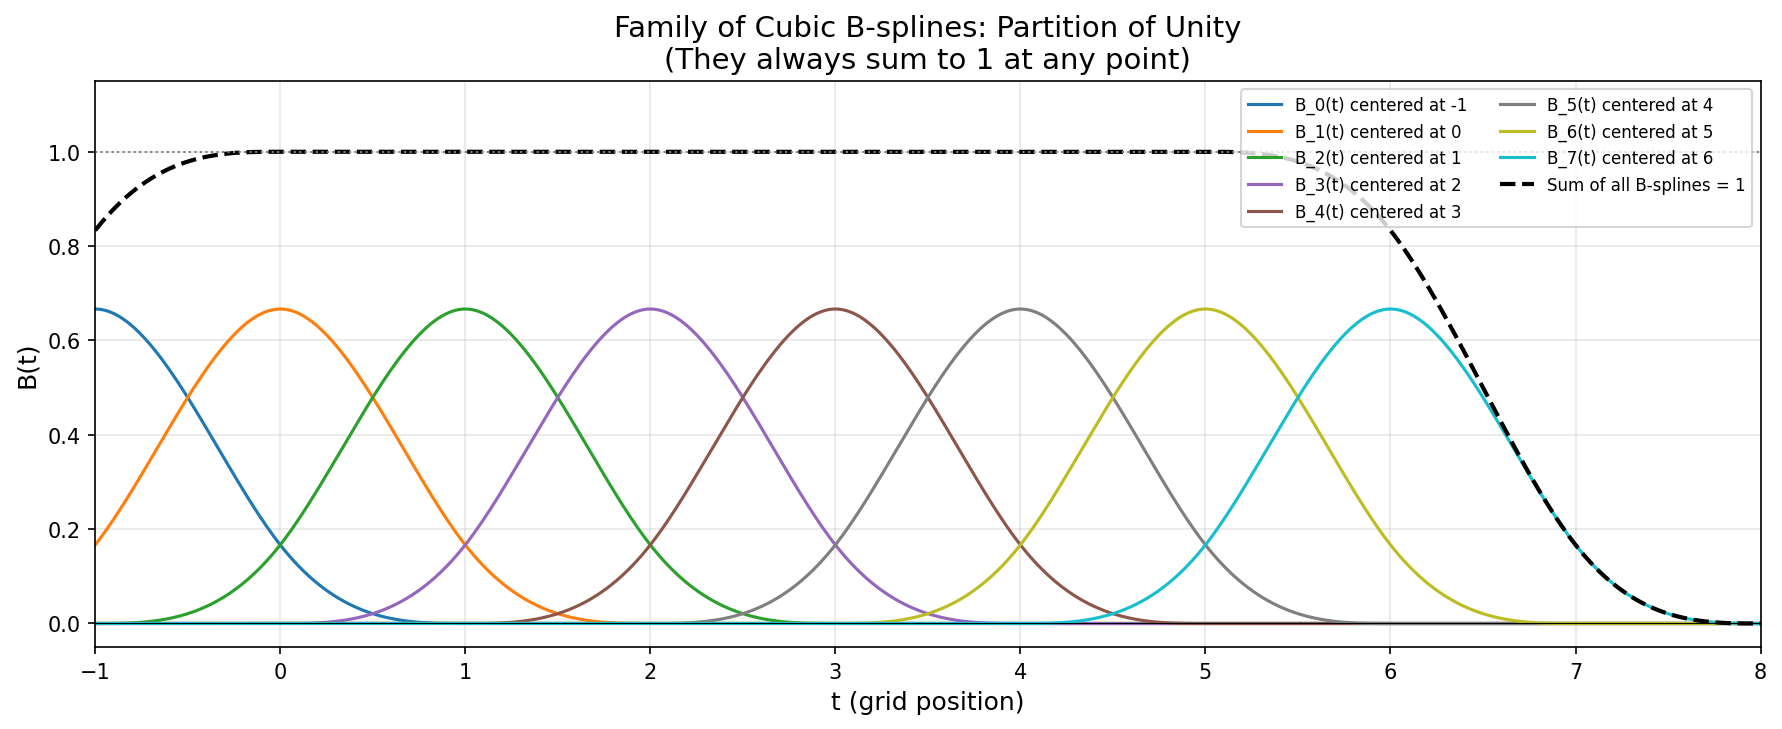
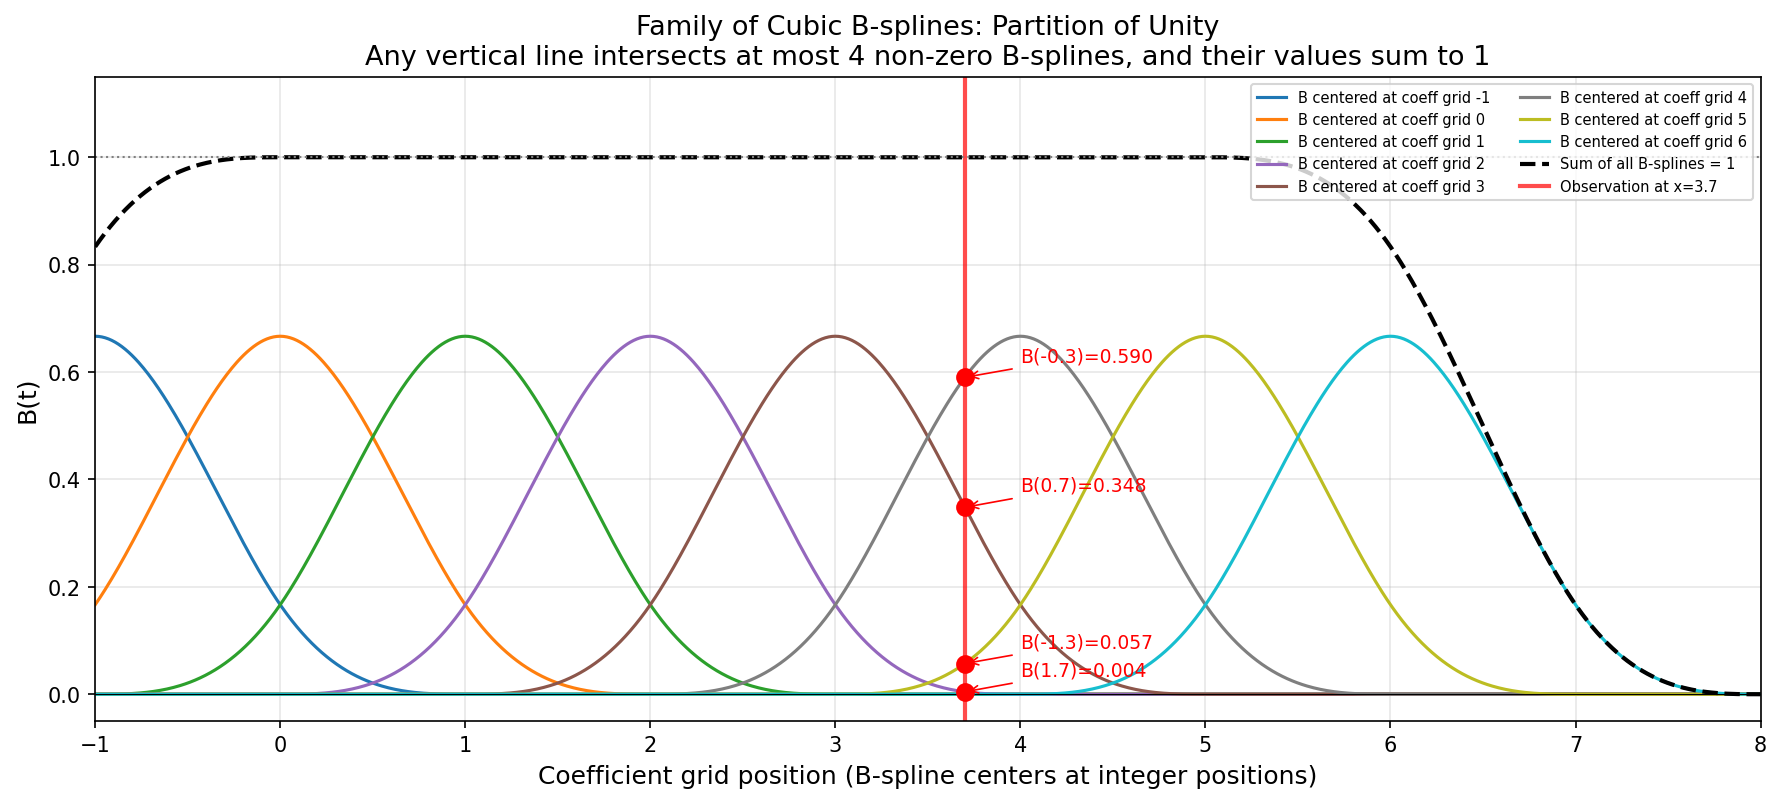
More doc updates

diff --git a/documentation/figures/plot_bspline_basis.py b/documentation/figures/plot_bspline_basis.py
@@ -58,9 +58,9 @@ def plot_single_bspline():
         ax.axvline(x=knot, color='gray', linestyle='--', linewidth=0.5, alpha=0.7)
         ax.plot(knot, cubic_bspline_basis(knot), 'ro', markersize=6)
 
-    ax.set_xlabel('t (grid units)', fontsize=12)
+    ax.set_xlabel('t (distance from center, in coefficient grid spacings)', fontsize=12)
     ax.set_ylabel('B(t)', fontsize=12)
-    ax.set_title('Single Cubic B-spline Basis Function\n(non-zero only over 4 grid cells)', fontsize=14)
+    ax.set_title('Single Cubic B-spline Basis Function\n(non-zero only within 2 grid spacings of center)', fontsize=14)
     ax.set_xlim(-3, 3)
     ax.set_ylim(-0.05, 0.75)
     ax.legend(loc='upper right')
@@ -79,30 +79,46 @@ def plot_single_bspline():
 
 def plot_bspline_family():
     """Plot multiple translated B-splines showing how they tile the domain."""
-    fig, ax = plt.subplots(figsize=(12, 5))
+    fig, ax = plt.subplots(figsize=(12, 5.5))
 
     t = np.linspace(-1, 8, 1000)
     colors = plt.cm.tab10(np.linspace(0, 1, 8))
 
-    # Plot B-splines centered at different grid points
+    # Plot B-splines centered at different coefficient grid points
     total = np.zeros_like(t)
     for i, center in enumerate(range(-1, 7)):
         B = cubic_bspline_basis(t - center)
-        ax.plot(t, B, color=colors[i], linewidth=1.5, label=f'B_{i}(t) centered at {center}')
+        ax.plot(t, B, color=colors[i], linewidth=1.5, label=f'B centered at coeff grid {center}')
         total += B
 
     # Plot the sum (should be 1 everywhere in the interior)
     ax.plot(t, total, 'k--', linewidth=2, label='Sum of all B-splines = 1')
 
+    # Show an observation between grid points
+    obs_pos = 3.7
+    ax.axvline(x=obs_pos, color='red', linestyle='-', linewidth=2, alpha=0.7, label=f'Observation at x={obs_pos}')
+
+    # Mark the 4 basis values at the observation location
+    for center in [2, 3, 4, 5]:
+        bval = cubic_bspline_basis(obs_pos - center)[0]
+        if bval > 0.001:
+            ax.plot(obs_pos, bval, 'ro', markersize=8, zorder=10)
+            ax.annotate(f'B({obs_pos - center:.1f})={bval:.3f}',
+                       xy=(obs_pos, bval), xytext=(obs_pos + 0.3, bval + 0.03),
+                       fontsize=9, color='red',
+                       arrowprops=dict(arrowstyle='->', color='red', lw=0.8))
+
     ax.axhline(y=1, color='gray', linestyle=':', linewidth=1)
     ax.axhline(y=0, color='k', linewidth=0.5)
 
-    ax.set_xlabel('t (grid position)', fontsize=12)
+    ax.set_xlabel('Coefficient grid position (B-spline centers at integer positions)', fontsize=12)
     ax.set_ylabel('B(t)', fontsize=12)
-    ax.set_title('Family of Cubic B-splines: Partition of Unity\n(They always sum to 1 at any point)', fontsize=14)
+    ax.set_title('Family of Cubic B-splines: Partition of Unity\n'
+                 'Any vertical line intersects at most 4 non-zero B-splines, and their values sum to 1',
+                 fontsize=13)
     ax.set_xlim(-1, 8)
     ax.set_ylim(-0.05, 1.15)
-    ax.legend(loc='upper right', fontsize=8, ncol=2)
+    ax.legend(loc='upper right', fontsize=7, ncol=2)
     ax.grid(True, alpha=0.3)
 
     plt.tight_layout()
@@ -185,7 +201,7 @@ def plot_field_reconstruction():
         ax.plot(x, B_weighted, color=colors[i], linewidth=1, alpha=0.7,
                 label=f'c_{i}·B_{i}' if i < 5 else None)
     ax.set_title('Individual weighted basis functions: c_i · B_i(x)', fontsize=12)
-    ax.set_xlabel('x (grid position)')
+    ax.set_xlabel('x (coefficient grid position)')
     ax.set_ylabel('Contribution to field')
     ax.legend(loc='upper right', fontsize=8)
     ax.grid(True, alpha=0.3)
@@ -199,7 +215,7 @@ def plot_field_reconstruction():
         if i in [0, 2, 4, 6, 9]:
             ax.plot(x, cumulative, linewidth=1.5, alpha=0.7, label=f'Sum up to B_{i}')
     ax.set_title('Progressive reconstruction: Σ c_i · B_i(x)', fontsize=12)
-    ax.set_xlabel('x (grid position)')
+    ax.set_xlabel('x (coefficient grid position)')
     ax.set_ylabel('Reconstructed field')
     ax.legend(loc='upper right', fontsize=8)
     ax.grid(True, alpha=0.3)
@@ -214,7 +230,7 @@ def plot_field_reconstruction():
     ax.scatter(range(n_coeffs), coefficients, c='red', s=50, zorder=5,
                label='Coefficient values c_i')
     ax.set_title('Final result: SST(x) = Σ c_i · B_i(x)', fontsize=12)
-    ax.set_xlabel('x (grid position)')
+    ax.set_xlabel('x (coefficient grid position)')
     ax.set_ylabel('Temperature (°C)')
     ax.legend(loc='upper right')
     ax.grid(True, alpha=0.3)

diff --git a/documentation/ALGORITHM_FLOW.md b/documentation/ALGORITHM_FLOW.md
@@ -65,29 +65,33 @@ Processing in a coarse-to-fine hierarchy provides several advantages:
 
 ### What are B-splines?
 
-B-splines are **purely mathematical basis functions**—they have no inherent connection to temperature or ocean physics. They serve the same role as sine/cosine waves in Fourier analysis: providing a flexible set of "building blocks" for representing smooth fields.
+B-splines are **purely mathematical basis functions**—they have no inherent connection to temperature or ocean physics. They provide a smooth, local "building block" for representing continuous fields.
 
-The SST field is represented as a weighted sum of these basis functions:
+Unlike Fourier analysis (which uses many different basis shapes—sin(x), sin(2x), sin(3x), etc.), MRVA uses **a single basis function shape**: the cubic B-spline. Copies of this one function are placed at each point on a **coefficient grid**, and the SST field is reconstructed as their weighted sum:
 
 ```
-SST(x,y) = Σ c_ij · B_i(x) · B_j(y)
+SST(x,y) = Σ c_ij · B(x - x_i) · B(y - y_j)
 ```
 
-Where the **coefficients c_ij are the unknowns** we solve for, and the B-splines B_i, B_j are fixed mathematical functions.
+Where:
+- `c_ij` are the coefficient values at coefficient grid point (i,j) — **the unknowns we solve for**
+- `B(t)` is the single cubic B-spline function, evaluated at distance t from the center
+- `x_i, y_j` are the coefficient grid positions where B-splines are centered
 
 ### Key Properties
 
 | Property | Description | Benefit for MRVA |
 |----------|-------------|------------------|
-| **Local support** | Each B-spline is non-zero over only 4 grid cells | Sparse matrices, O(N) computation |
+| **Local support** | Non-zero only within 2 grid spacings of its center | Sparse matrices, O(N) computation |
 | **Smoothness** | C² continuous (continuous 2nd derivative) | No artificial discontinuities in SST |
-| **Partition of unity** | All basis functions sum to 1 at any point | Proper interpolation, unbiased averaging |
+| **Partition of unity** | At any point, the nearby B-splines sum to 1 | Unbiased interpolation between grid points |
+| **Symmetric** | B(t) = B(-t) | Distance is all that matters, not direction |
 | **Non-negative** | Always ≥ 0 | Numerically stable |
-| **Tensor product** | 2D basis = B_i(x) · B_j(y) | Separable, efficient computation |
+| **Tensor product** | 2D evaluation = B(dx) · B(dy) | Separable, efficient computation |
 
-### Single B-spline Basis Function
+### The B-spline Function
 
-A cubic B-spline centered at the origin has the piecewise formula:
+There is **one function**, the cubic B-spline, evaluated at a distance `t` from its center:
 
 ```
 B(t) = (4 - 6|t|² + 3|t|³) / 6    for |t| < 1
@@ -97,17 +101,59 @@ B(t) = 0                           for |t| ≥ 2
 
 ![Single B-spline basis function](figures/bspline_single.png)
 
-*A single cubic B-spline: smooth, bell-shaped, and non-zero only over 4 grid cells.*
+*The cubic B-spline: smooth, symmetric, and zero beyond 2 grid spacings from its center.*
+
+The input `t` is the **distance** (in coefficient grid spacings) from the evaluation point to the B-spline center. This is the only function needed—every B-spline in the system is just this function evaluated at a different distance.
+
+### Coefficient Grid vs Output Grid
+
+An important distinction: the B-spline centers sit on the **coefficient grid**, which is much coarser than the 0.01° output grid:
+
+| Scale | Coefficient grid spacing | Output grid (0.01°) | Ratio |
+|-------|--------------------------|---------------------|-------|
+| L=6 | ~0.70° | 0.01° | ~70x coarser |
+| L=8 | ~0.17° | 0.01° | ~17x coarser |
+| L=10 | ~0.045° | 0.01° | ~4.5x coarser |
+| L=11 | ~0.022° | 0.01° | ~2.2x coarser |
+
+Observations from satellites and buoys fall at arbitrary lat/lon positions that are almost never aligned with the coefficient grid. Likewise, the 0.01° output grid points sit between coefficient grid centers. This is why the partition of unity property matters.
 
 ### Partition of Unity
 
-When B-splines are placed at each grid point, they **always sum to 1** at any location:
+At any arbitrary position on the domain, the B-splines from the nearest coefficient grid points sum to exactly 1. This is visualized by drawing a vertical line anywhere on the family plot—it intersects at most 4 non-zero B-splines, and their values always sum to 1:
 
 ![Family of B-splines showing partition of unity](figures/bspline_family.png)
 
-*Multiple B-splines covering the domain. The dashed line shows their sum equals 1 everywhere.*
+*B-splines centered at coefficient grid points (integers). The red vertical line shows an observation at position 3.7—it intersects 4 B-splines whose values sum to 1. This ensures unbiased interpolation at any position between grid centers.*
 
-This property ensures that the representation has no gaps or biases—it's a proper weighted average of nearby coefficients.
+This property guarantees:
+- **No information is lost or invented** when projecting observations onto the coefficient grid
+- **Constant fields are exact**: if all coefficients equal 20°C, the field evaluates to exactly 20°C everywhere
+- **No systematic bias** at positions between coefficient grid centers
+
+### How Observations Enter the System
+
+When an observation at position `x_obs` is projected onto the coefficient grid, there is no "assignment" to a single grid point. Instead:
+
+1. Compute `floor(x_obs)` to identify the 4 nearby coefficient grid points: `floor(x_obs) + {-1, 0, 1, 2}`
+2. Compute the **distance** from `x_obs` to each of those 4 grid points
+3. Evaluate the B-spline function `B(distance)` for each — these are the weights
+4. The observation contributes to all 4 grid points simultaneously, proportional to these weights
+
+```
+Example: observation at coefficient grid position 3.7
+
+  Grid point:  2       3       4       5
+  Distance:    1.7     0.7     0.3     1.3
+  B(distance): 0.005   0.348   0.590   0.057    (sum = 1.0)
+                                 ↑
+                          closest grid point gets
+                          the largest weight
+```
+
+Due to the B-spline's **symmetry**, this is mathematically equivalent to centering a B-spline at the observation and evaluating it at each grid point. The `floor` operation is just bookkeeping to identify which 4 grid points are nearby—the B-spline function and distances do all the actual work.
+
+In 2D, the same process applies independently in x and y (tensor product), affecting a 4×4 = 16-point neighborhood.
 
 ### Field Reconstruction
 
@@ -115,17 +161,17 @@ The coefficients c_ij determine the SST field. Each coefficient multiplies its a
 
 ![How coefficients combine with B-splines to reconstruct a field](figures/bspline_reconstruction.png)
 
-*Top-left: Individual weighted basis functions c_i·B_i(x). Top-right: Progressive summation. Bottom-left: Final reconstructed field (blue) from coefficient values (red points).*
+*Top-left: Individual weighted basis functions c_i·B_i(x). Top-right: Progressive summation. Bottom-left: Final reconstructed field (blue) from coefficient values (red points). Because B-splines partition unity, the coefficients approximate the field values at each grid point.*
 
 ### Multi-Scale B-splines
 
-At each scale L, the grid spacing halves and the number of basis functions doubles:
+At each scale L, the coefficient grid spacing halves and the number of basis functions doubles:
 
 ![Multi-scale B-spline grids](figures/bspline_multiscale.png)
 
-*B-spline grids at different scales. Finer scales have more, narrower basis functions to capture smaller features.*
+*Coefficient grids at different scales. Finer scales have more, narrower basis functions to capture smaller features.*
 
-This is the "wavelet-like" aspect of MRVA—the hierarchical multi-resolution structure—though the B-splines themselves are **not wavelets** (they don't have zero mean or the strict frequency localization properties of wavelets).
+This is the "wavelet-like" aspect of MRVA—the hierarchical multi-resolution structure—though the B-splines themselves are **not wavelets** (they don't have zero mean or the strict frequency localization properties of wavelets). The multi-resolution comes from the grid density, not from different basis function shapes.
 
 ### Why B-splines (not wavelets)?
 
@@ -133,7 +179,7 @@ While MRVA's multi-resolution approach is inspired by wavelet analysis, it uses 
 
 1. **Non-negativity**: B-splines are always ≥ 0, simplifying physical interpretation
 2. **Interpolation**: B-splines naturally interpolate between grid points
-3. **Simplicity**: The tensor-product structure B_i(x)·B_j(y) is straightforward
+3. **Simplicity**: The tensor-product structure B(dx)·B(dy) is straightforward
 4. **Smoothness**: Cubic B-splines provide C² continuity without oscillations
 
 Wavelets (which oscillate and have zero mean) would require more complex handling for a physical field like SST that is inherently positive and smooth.
@@ -165,25 +211,71 @@ This is the **Euler-Lagrange equation** (normal equations) derived from minimizi
 
 For each observation (latitude, longitude, SST_obs, error, time):
 
-1. **Locate grid cell** containing the observation
-2. **Evaluate B-spline basis functions** at the observation location
-3. **Accumulate contributions** to system matrix and right-hand side:
+1. **Identify** the 4×4 coefficient grid neighborhood around the observation
+2. **Compute distances** from the observation to each of the 16 nearby coefficient grid points
+3. **Evaluate B(distance)** for each — these are the basis weights
+4. **Accumulate contributions** to the system matrix and right-hand side:
 
 ```
-weight = error_weight * exp(-(t/decay)²) * spatial_scaling
+For each observation:
 
-For each nearby coefficient (4×4 neighborhood due to B-spline support):
+  combined_weight = (1/rms²) × exp(-(t/decay)²) × density_scaling
+                    ├─────┘    ├───────────────┘   ├──────────────┘
+                    error      temporal decay       rho (prevents dense
+                    confidence (recent obs count     clusters from
+                               more)                dominating)
 
-  b_ij   += B_i(x_obs) · B_j(y_obs) · SST_obs · weight
-           ↑                          ↑
-           basis functions            ACTUAL MEASUREMENT (only place SST values appear)
+  For each of the 16 nearby coefficient grid points (i,j) and (k,l):
 
-  A_ij,kl += B_i(x_obs) · B_j(y_obs) · B_k(x_obs) · B_l(y_obs) · weight
-             ↑                         ↑
-             basis function products   (NO SST values—purely geometric)
+    dx_i = distance from obs to grid point i (in x)
+    dy_j = distance from obs to grid point j (in y)
+
+    b_ij   += B(dx_i) · B(dy_j) · SST_obs · combined_weight
+                                   ↑
+                                   ACTUAL MEASUREMENT
+                                   (only place SST values appear)
+
+    A_ij,kl += B(dx_i) · B(dy_j) · B(dx_k) · B(dy_l) · combined_weight
+               ↑                                ↑
+               products of B-spline distances   (NO SST values)
 ```
 
-**Key insight:** The matrix A is the weighted sum of outer products of basis function vectors. It captures *where* and *how densely* observations constrain each coefficient, but not *what* the observations measured. The vector b captures the actual temperature information.
+**Multiple observations in the same grid cell are accumulated (summed), not averaged.** The rho density scaling factor prevents clusters from having disproportionate influence:
+
+```
+density_scaling(i,j) = 1 / (rho × (count(i,j) - 1) + 1)
+```
+
+Where `count(i,j)` is the number of observations in that coefficient grid cell.
+
+**Key insight:** The matrix A does NOT contain observation values. It encodes the *geometry* of the observation configuration—specifically, products of B-spline values based on distances to coefficient grid points. The actual measured SST values appear **only** in the right-hand side vector b.
+
+### Three Phases of the Algorithm
+
+The full process has three distinct phases:
+
+**Phase 1 — Build the system** (subroutine `spmDataScale` in `spmm.f`):
+```
+For each observation:
+  compute distances to 4×4 coefficient grid neighborhood
+  evaluate B(distance) for each grid point
+  accumulate into A (basis products × weight) and b (basis × SST_obs × weight)
+```
+
+**Phase 2 — Solve** (PCG/SOR iterative solver):
+```
+(A + R) c = b  →  find optimal coefficients c
+```
+
+**Phase 3 — Evaluate** (output generation):
+```
+For each output grid point (0.01° spacing):
+  compute distances to 4×4 coefficient grid neighborhood
+  SST = Σ c_ij × B(dx_i) × B(dy_j)
+  (No scaling factors — just coefficients × basis values)
+```
+
+The scaling factors (error weight, temporal decay, density correction) only exist in Phase 1. Phase 3 is purely coefficients multiplied by B-spline distance values.
 
 ### Smoothness Regularization
 
@@ -630,5 +722,5 @@ For detailed mathematical derivations and implementation specifics, see:
 
 ---
 
-*Last Updated: 2025-02-05*
-*Documentation Version: 1.1*
+*Last Updated: 2026-02-05*
+*Documentation Version: 1.2*
